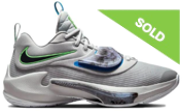
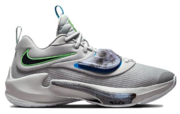
Imagenes modificadas y index

diff --git a/Store.html b/Store.html
@@ -3,7 +3,7 @@
 <head>
     <meta charset="UTF-8">
     <meta name="viewport" content="width=device-width, initial-scale=1.0">
-    <title>My Own Collection - Stock</title>
+    <title>Sneakers Collection</title>
     <link rel="shortcut icon" type="image/x-icon" href="Imagenes/favicon/favicon3.ico">
     
     <!-- Fuente moderna Google Fonts -->
@@ -19,7 +19,7 @@
 
     <!-- Encabezado -->
     <header>
-        <h1>📌 My Own Collection</h1>
+        <h1>📌 Sneakers Collection</h1>
     </header>
 
     <!-- Navegación Principal -->
@@ -27,7 +27,7 @@
         <ul class="menu">
             <li><a href="index.html">🏠 Home</a></li>
             <li class="separator">/</li>
-            <li><a href="Store.html" class="active">📌 My Own Collection</a></li>
+            <li><a href="Store.html" class="active">📌 Sneakers Collection</a></li>
             <li class="separator">/</li>
             <li><a href="Sold.html">🏷 For Sale</a></li>
             <li class="separator">/</li>
@@ -126,6 +126,16 @@
                     </div>
                 </div>
 
+                <div class="sneaker-card">
+                    <span class="badge badge-sold">SOLD</span>
+                    <img src="Imagenes/sns/DZ5485-612.png" alt="Jordan 1 Chicago Lost and Found" loading="lazy">
+                    <div class="sneaker-info">
+                        <div class="model-name">Jordan 1 Retro High OG</div>
+                        <div class="sku">DZ5485-612</div>
+                        <strong class="colorway">Chicago Lost and Found (2022)</strong>
+                    </div>
+                </div>
+
                 <!-- Ejemplo de tarjeta con Badge SOLD -->
                 <div class="sneaker-card">
                     <span class="badge badge-sold">SOLD</span>
@@ -156,6 +166,16 @@
                 </div>
 
                 <div class="sneaker-card">
+                    <img src="Imagenes/sns/553558-053.png" alt="Jordan 1 Low Stealth Grey" loading="lazy">
+                    <div class="sneaker-info">
+                        <div class="model-name">Jordan 1 Low</div>
+                        <div class="sku">553558-053</div>
+                        <strong class="colorway">"Vintage Stealth Grey (2022)"</strong>
+                    </div>
+                </div>
+
+                <div class="sneaker-card">
+                    <span class="badge badge-return">RETURN</span>
                     <img src="Imagenes/sns/FJ3459-160.png" alt="Jordan 1 Low Dune Red" loading="lazy">
                     <div class="sneaker-info">
                         <div class="model-name">Jordan 1 Low SE</div>
@@ -165,11 +185,12 @@
                 </div>
 
                 <div class="sneaker-card">
-                    <img src="Imagenes/sns/553558-053.png" alt="Jordan 1 Low Stealth Grey" loading="lazy">
+                    <span class="badge badge-sold">SOLD</span>
+                    <img src="Imagenes/sns/553558-607.png" alt="Jordan 1 Low Cardinal Red" loading="lazy">
                     <div class="sneaker-info">
                         <div class="model-name">Jordan 1 Low</div>
-                        <div class="sku">553558-053</div>
-                        <strong class="colorway">"Vintage Stealth Grey (2022)"</strong>
+                        <div class="sku">553558-607</div>
+                        <strong class="colorway">"Cardinal Red (2022)"</strong>
                     </div>
                 </div>
 
@@ -183,15 +204,6 @@
                     </div>
                 </div>
 
-                <div class="sneaker-card">
-                    <span class="badge badge-sold">SOLD</span>
-                    <img src="Imagenes/sns/553558-607.png" alt="Jordan 1 Low Cardinal Red" loading="lazy">
-                    <div class="sneaker-info">
-                        <div class="model-name">Jordan 1 Low</div>
-                        <div class="sku">553558-607</div>
-                        <strong class="colorway">"Cardinal Red (2022)"</strong>
-                    </div>
-                </div>
             </div>
         </section>
 
@@ -221,15 +233,6 @@
                 </div>
 
                 <div class="sneaker-card">
-                    <img src="Imagenes/sns/DD1503-124.png" alt="Nike Dunk Low Cacao" loading="lazy">
-                    <div class="sneaker-info">
-                        <div class="model-name">Nike Dunk Low</div>
-                        <div class="sku">DD1503-124</div>
-                        <strong class="colorway">"Cacao (2023)"</strong>
-                    </div>
-                </div>
-
-                <div class="sneaker-card">
                     <img src="Imagenes/sns/DD3357-100.png" alt="Nike Dunk Low Halloween" loading="lazy">
                     <div class="sneaker-info">
                         <div class="model-name">Nike Dunk Low PRM</div>
@@ -253,6 +256,16 @@
                         <div class="model-name">Nike P-6000</div>
                         <div class="sku">BV1021-200</div>
                         <strong class="colorway">"Fauna Brown (2025)"</strong>
+                    </div>
+                </div>
+
+                <div class="sneaker-card">
+                    <span class="badge badge-sold">SOLD</span>
+                    <img src="Imagenes/sns/DD1503-124.png" alt="Nike Dunk Low Cacao" loading="lazy">
+                    <div class="sneaker-info">
+                        <div class="model-name">Nike Dunk Low</div>
+                        <div class="sku">DD1503-124</div>
+                        <strong class="colorway">"Cacao (2023)"</strong>
                     </div>
                 </div>
 
@@ -479,15 +492,6 @@
                 </div>
 
                 <div class="sneaker-card">
-                    <img src="Imagenes/sns/FD7328-002.png" alt="Nike Ja 2" loading="lazy">
-                    <div class="sneaker-info">
-                        <div class="model-name">Nike Ja 2</div>
-                        <div class="sku">FD7328-002</div>
-                        <strong class="colorway">"Exposure Iron Grey (2025)"</strong>
-                    </div>
-                </div>
-
-                <div class="sneaker-card">
                     <img src="Imagenes/sns/JQ2252.png" alt="Adidas DON Issue 6" loading="lazy">
                     <div class="sneaker-info">
                         <div class="model-name">Adidas D.O.N. Issue #6</div>
@@ -497,6 +501,17 @@
                 </div>
 
                 <div class="sneaker-card">
+                    <span class="badge badge-sold">SOLD</span>
+                    <img src="Imagenes/sns/FD7328-002.png" alt="Nike Ja 2" loading="lazy">
+                    <div class="sneaker-info">
+                        <div class="model-name">Nike Ja 2</div>
+                        <div class="sku">FD7328-002</div>
+                        <strong class="colorway">"Exposure Iron Grey (2025)"</strong>
+                    </div>
+                </div>
+
+                <div class="sneaker-card">
+                    <span class="badge badge-sold">SOLD</span>
                     <img src="Imagenes/sns/DA0694-004.png" alt="Nike Zoom Freak 3 Grey Marble" loading="lazy">
                     <div class="sneaker-info">
                         <div class="model-name">Nike Zoom Freak 3</div>
@@ -506,6 +521,7 @@
                 </div>
 
                 <div class="sneaker-card">
+                    <span class="badge badge-sold">SOLD</span>
                     <img src="Imagenes/sns/DA0694-006.png" alt="Nike Zoom Freak 3 Low Battery" loading="lazy">
                     <div class="sneaker-info">
                         <div class="model-name">Nike Zoom Freak 3</div>
@@ -515,6 +531,7 @@
                 </div>
 
                 <div class="sneaker-card">
+                    <span class="badge badge-sold">SOLD</span>
                     <img src="Imagenes/sns/DA0694-401.png" alt="Nike Zoom Freak 3 Freeze Time" loading="lazy">
                     <div class="sneaker-info">
                         <div class="model-name">Nike Zoom Freak 3</div>
@@ -524,6 +541,7 @@
                 </div>
 
                 <div class="sneaker-card">
+                    <span class="badge badge-sold">SOLD</span>
                     <img src="Imagenes/sns/DX6650-401.png" alt="Nike Zoom GT Cut 2 Midnight Navy" loading="lazy">
                     <div class="sneaker-info">
                         <div class="model-name">Nike Zoom GT Cut 2</div>
@@ -533,6 +551,7 @@
                 </div>
 
                 <div class="sneaker-card">
+                    <span class="badge badge-sold">SOLD</span>
                     <img src="Imagenes/sns/DH0832-063.png" alt="Jordan 36 Low" loading="lazy">
                     <div class="sneaker-info">
                         <div class="model-name">Jordan 36 Low</div>
@@ -542,6 +561,18 @@
                 </div>
 
                 <div class="sneaker-card">
+                    <span class="badge badge-sold">SOLD</span>
+                    <img src="Imagenes/sns/CZ2650-100.png" alt="Jordan Luka 36 Psychic Energy" loading="lazy">
+                    <div class="sneaker-info">
+                        <div class="model-name">Jordan Luka 36</div>
+                        <div class="sku">CZ2650-100</div>
+                        <strong class="colorway">Psychic Energy (2021)</strong>
+                    </div>
+                </div>
+
+
+                <div class="sneaker-card">
+                    <span class="badge badge-sold">SOLD</span>
                     <img src="Imagenes/sns/FB2599-001.png" alt="Nike GT Cut Academy" loading="lazy">
                     <div class="sneaker-info">
                         <div class="model-name">Nike Zoom GT Cut Academy</div>
@@ -551,11 +582,72 @@
                 </div>
 
                 <div class="sneaker-card">
+                    <span class="badge badge-sold">SOLD</span>
                     <img src="Imagenes/sns/FB2599-004.png" alt="Nike GT Cut Academy Smoke" loading="lazy">
                     <div class="sneaker-info">
                         <div class="model-name">Nike Zoom GT Cut Academy</div>
                         <div class="sku">FB2599-004</div>
                         <strong class="colorway">"Light Smoke Grey (2024)"</strong>
+                    </div>
+                </div>
+
+                <div class="sneaker-card">
+                    <span class="badge badge-sold">SOLD</span>
+                    <img src="Imagenes/sns/CW3146-002.png" alt="Nike PG 5 Bred" loading="lazy">
+                    <div class="sneaker-info">
+                        <div class="model-name">Nike PG 5</div>
+                        <div class="sku">CW3146-002</div>
+                        <strong class="colorway">Bred (2021)</strong>
+                    </div>
+                </div>
+
+                <div class="sneaker-card">
+                    <span class="badge badge-sold">SOLD</span>
+                    <img src="Imagenes/sns/CQ9326-002.png" alt="Nike Kyrie 7 BK Black" loading="lazy">
+                    <div class="sneaker-info">
+                        <div class="model-name">Nike Kyrie 7</div>
+                        <div class="sku">CQ9326-002</div>
+                        <strong class="colorway">BK Black 2020 (2020)</strong>
+                    </div>
+                </div>
+
+                <div class="sneaker-card">
+                    <span class="badge badge-sold">SOLD</span>
+                    <img src="Imagenes/sns/CQ9326-005.png" alt="Nike Kyrie 7 Ripple Effect" loading="lazy">
+                    <div class="sneaker-info">
+                        <div class="model-name">Nike Kyrie 7</div>
+                        <div class="sku">CQ9326-005</div>
+                        <strong class="colorway">Ripple Effect (2021)</strong>
+                    </div>
+                </div>
+
+                <div class="sneaker-card">
+                    <span class="badge badge-sold">SOLD</span>
+                    <img src="Imagenes/sns/DQ6510-003.png" alt="Jordan Luka 1 Black Lime" loading="lazy">
+                    <div class="sneaker-info">
+                        <div class="model-name">Jordan Luka 1</div>
+                        <div class="sku">DQ6510-003</div>
+                        <strong class="colorway">Black Lime Glow (2022)</strong>
+                    </div>
+                </div>
+
+                <div class="sneaker-card">
+                    <span class="badge badge-sold">SOLD</span>
+                    <img src="Imagenes/sns/193990-03.png" alt="Puma RS-Dreamer J. Cole Black" loading="lazy">
+                    <div class="sneaker-info">
+                        <div class="model-name">Puma RS-Dreamer</div>
+                        <div class="sku">193990-03</div>
+                        <strong class="colorway">J. Cole Black (2020)</strong>
+                    </div>
+                </div>
+
+                <div class="sneaker-card">
+                    <span class="badge badge-sold">SOLD</span>
+                    <img src="Imagenes/sns/194602-01.png" alt="Puma RS-Dreamer Blood Sweat and Tears" loading="lazy">
+                    <div class="sneaker-info">
+                        <div class="model-name">Puma RS-Dreamer</div>
+                        <div class="sku">194602-01</div>
+                        <strong class="colorway">J. Cole Blood, Sweat and Tears (2020)</strong>
                     </div>
                 </div>
             </div>

diff --git a/index.html b/index.html
@@ -34,13 +34,13 @@
         header {
             width: 100%;
             background-color: #535353;
-            padding: 2.5rem 1rem 2rem 1rem;
+            padding: 2.5rem 1rem 1.5rem 1rem;
             text-align: center;
             box-shadow: 0 4px 6px -1px rgba(0, 0, 0, 0.15);
         }
 
         h1 {
-            font-size: 2.5rem;
+            font-size: 2.2rem;
             font-weight: 800;
             letter-spacing: -0.05em;
             color: #ffffff;
@@ -89,17 +89,6 @@
             user-select: none;
         }
 
-        /* Efecto al pasar el ratón por los enlaces */
-        .menu a:hover {
-            color: #ffffff;
-            background-color: #535353;
-        }
-
-        .separator {
-            color: #94a3b8;
-            font-size: 0.8rem;
-        }
-
         /* Contenedor Principal e Imagen */
         main {
             width: 100%;
@@ -141,22 +130,30 @@
             margin-top: 3rem;
         }
 
-        /* Adaptación a móviles */
+        /* Adaptación a móviles (idéntica a las demás hojas) */
         @media (max-width: 640px) {
             h1 {
                 font-size: 1.8rem;
             }
+
             .menu {
                 border-radius: 16px;
                 flex-direction: column;
                 gap: 0.25rem;
                 padding: 0.75rem;
             }
+
             .separator {
                 display: none;
             }
+
+            .menu li {
+                width: 100%;
+            }
+
             .menu a {
                 width: 100%;
+                display: block;
                 text-align: center;
             }
         }
@@ -170,17 +167,17 @@
         <h1>📍 Sneakers and More</h1>
     </header>
 
-    <!-- Navegación -->
+    <!-- Navegación corregida con etiquetas <li> idénticas a las demás hojas -->
     <nav>
         <ul class="menu">
-            <li><a href="index.html">🏠 Home</a></li>
-            <span class="separator">/</span>
-            <li><a href="Store.html">📌 My Own Collection</a></li>
-            <span class="separator">/</span>
+            <li><a href="index.html" class="active">🏠 Home</a></li>
+            <li class="separator">/</li>
+            <li><a href="Store.html">📌 Sneakers Collection</a></li>
+            <li class="separator">/</li>
             <li><a href="Sold.html">🏷 For Sale</a></li>
-            <span class="separator">/</span>
+            <li class="separator">/</li>
             <li><a href="Others.html">Others</a></li>
-            <span class="separator">/</span>
+            <li class="separator">/</li>
             <li><a href="website_homepage.htm">Wish list</a></li>
         </ul>
     </nav>

diff --git a/Sold.html b/Sold.html
@@ -26,7 +26,7 @@
         <ul class="menu">
             <li><a href="index.html">🏠 Home</a></li>
             <li class="separator">/</li>
-            <li><a href="Store.html">📌 My Own Collection</a></li>
+            <li><a href="Store.html">📌 Sneakers Collection</a></li>
             <li class="separator">/</li>
             <li><a href="Sold.html" class="active">🏷 For Sale</a></li>
             <li class="separator">/</li>

diff --git a/Others.html b/Others.html
@@ -266,7 +266,7 @@
         <ul class="menu">
             <li><a href="index.html">🏠 Home</a></li>
             <li class="separator">/</li>
-            <li><a href="Store.html">📌 My Own Collection</a></li>
+            <li><a href="Store.html">📌 Sneakers Collection</a></li>
             <li class="separator">/</li>
             <li><a href="Sold.html">🏷 For Sale</a></li>
             <li class="separator">/</li>
